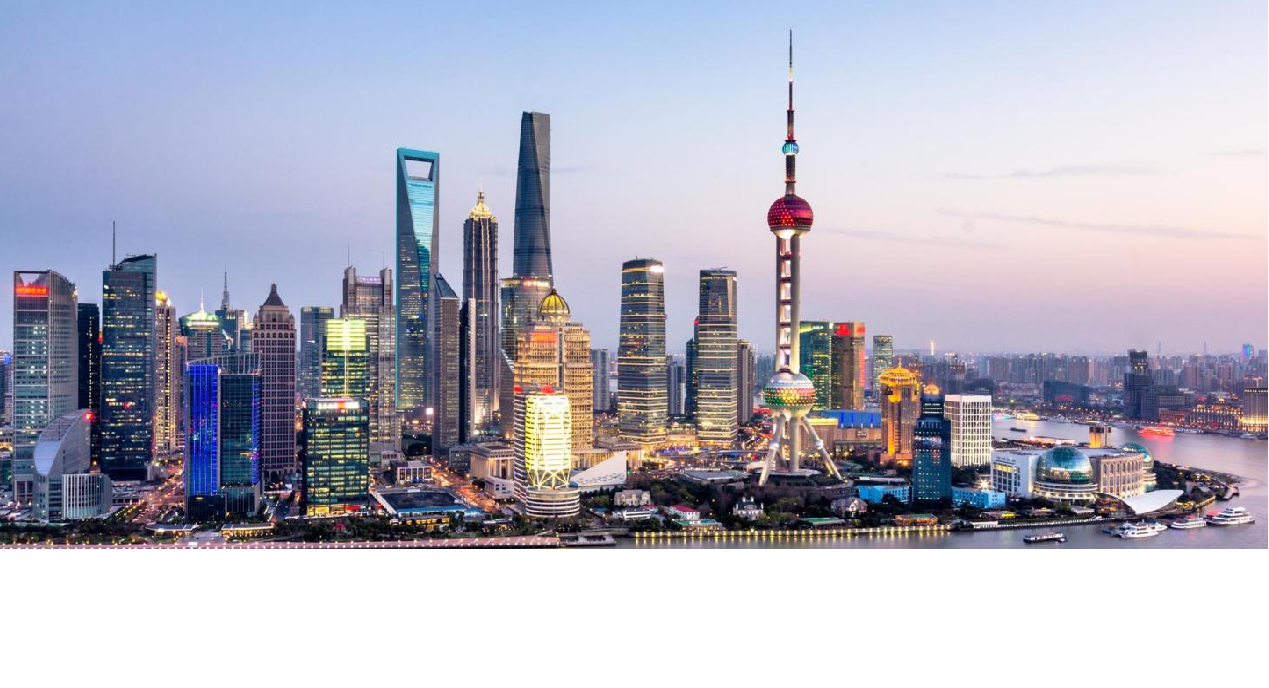
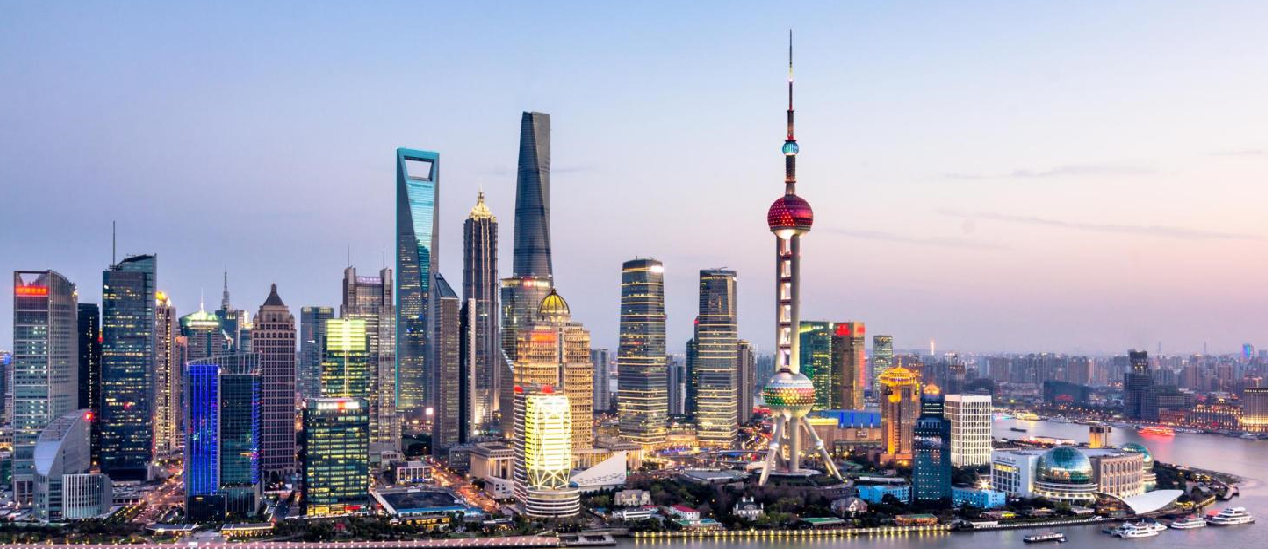
네

diff --git a/YouManDa/src/main/webapp/resources/css/agency.min.css b/YouManDa/src/main/webapp/resources/css/agency.min.css
@@ -245,7 +245,10 @@ header.masthead .intro-text .intro-heading {
 }
 section.eng{
 	background-image: url(../img/789.jpg);
-	height: 500px 
+	height: 500px;
+	background-size: 1000px 500px;
+	
+	
 }
 #first .section-heading{
 	font-size: 50px;
@@ -255,22 +258,26 @@ section.eng{
 section.cng{
 	background-image: url(../img/123.jpg);
 	height: 500px;
+	background-size: 1000px 500px;
 }
 #portfolio .section-heading{
 	font-size: 50px;
-	margin-top: 90px
+	margin-top: 90px;
+	color: #ffffff
 }
 
 section.jap{
 	background-image: url(../img/456.jpg);
-	height: 500px
+	height: 500px;
+	background-size: 1000px 500px;
 }
 #services .section-heading{
 	font-size: 50px;
-	margin-top: 90px
+	margin-top: 90px;
+	color: #ffffff
 }
 
-#portfolio .portfolio-item .portfolio-link .portfolio-hover .portfolio-hover-content
+#first .portfolio-item .portfolio-link .portfolio-hover .portfolio-hover-content
 	{
 	font-size: 20px;
 	position: absolute;
@@ -284,7 +291,7 @@ section.jap{
 
 
 
-#portfolio .portfolio-item .portfolio-caption p {
+#first .portfolio-item .portfolio-caption p {
 	font-size: 16px;
 	font-style: italic;
 	margin: 0;
